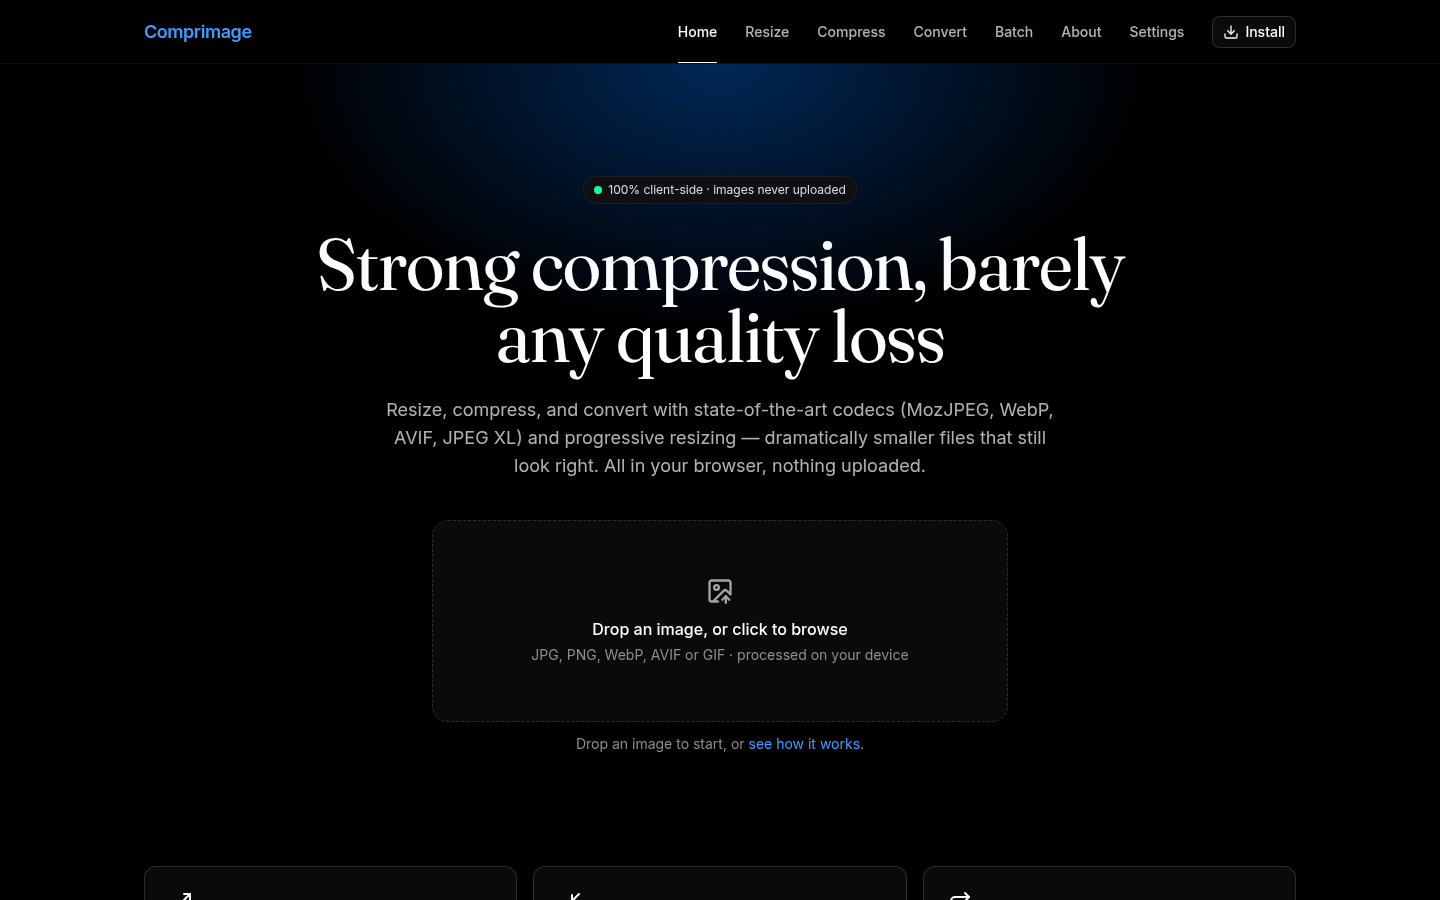
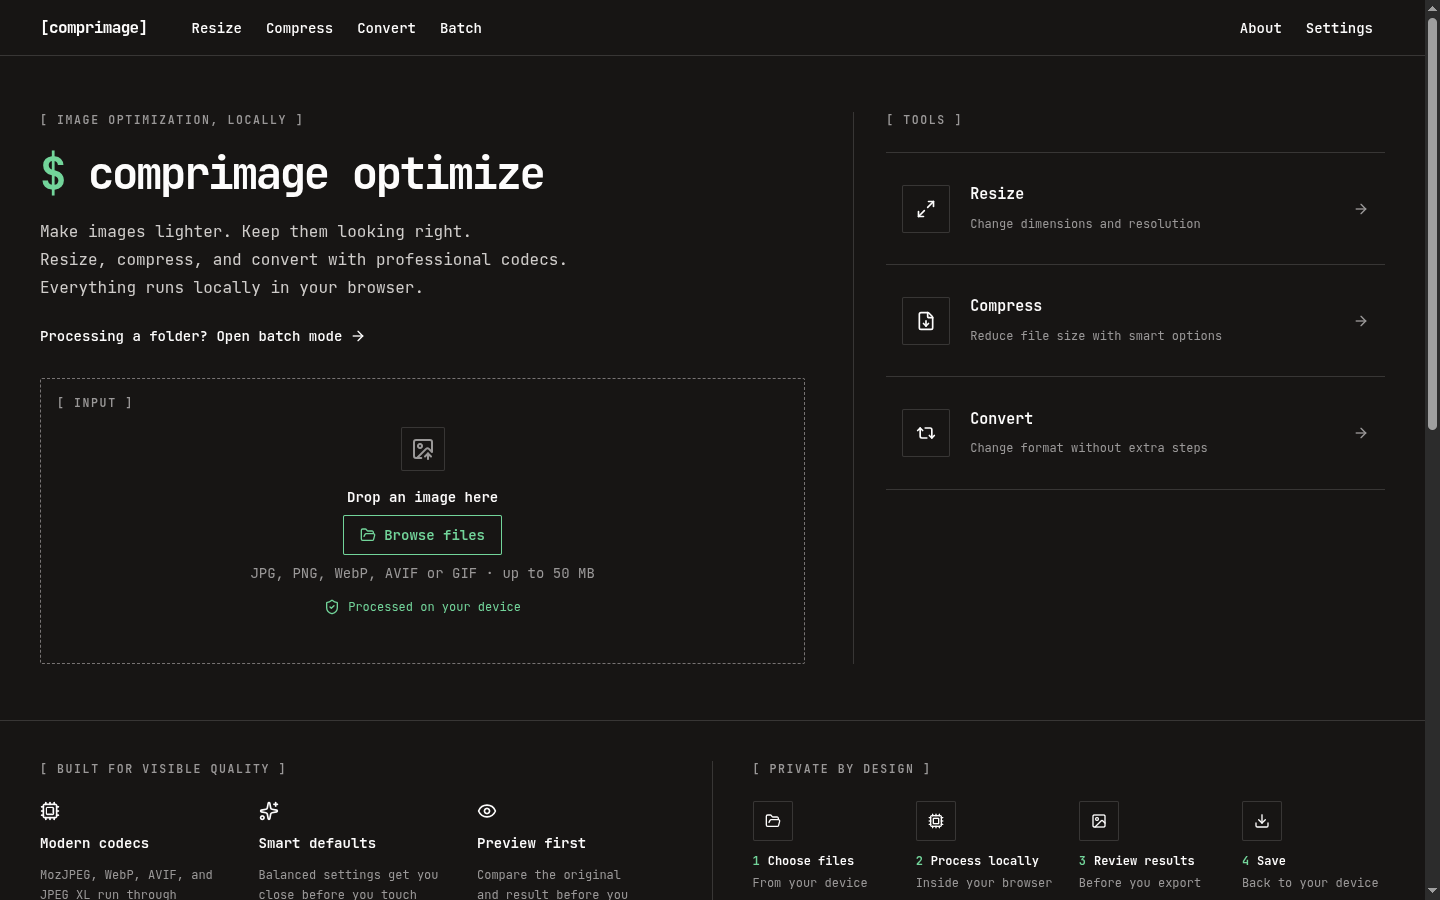
feat(projects): add Typefn and AutoWealth, move Comprimage to apex domain
Refresh the projects section with two new entries and correct the
Comprimage link after its move off the personal subdomain.

- add Typefn as the leading featured project, tagged TanStack Start, Go,
  PostgreSQL, and Tree-sitter
- add AutoWealth as a non-featured entry tagged PHP, Bootstrap, and CSS
- point Comprimage at comprimage.my.id, replacing the retired
  comprimage.rifkiramadhani.my.id subdomain
- recapture the Comprimage preview after its terminal-theme redesign

Preview images are captured at 1440x900 in dark mode, matching the
dimensions of the existing previews. Validated with ESLint, an Astro
production build, and a rendered check of the projects section in both
light and dark themes.

diff --git a/src/data/projects.ts b/src/data/projects.ts
@@ -8,6 +8,16 @@ const PROJECTS: {
   tags?: string[]
 }[] = [
   {
+    name: 'Typefn',
+    featured: true,
+    tags: ['TanStack Start', 'Go', 'PostgreSQL', 'Tree-sitter'],
+    description:
+      'A Monkeytype-style typing trainer for software engineers, built on real functions from permissively licensed open-source repositories. Tree-sitter extracts the corpus across TypeScript, JavaScript, Go, PHP, and Python, and the trainer preserves auto-indent while marking errors without force-correcting. Timed runs feed history, leaderboards, and adaptive weak-symbol drills.',
+    liveLink: 'https://www.typefn.dev/',
+    previewImage: 'typefn/1.png',
+    repoUrl: '#',
+  },
+  {
     name: 'Sportsmans Warehouse',
     featured: true,
     tags: ['Vue', 'Node.js', 'Tailwind', 'Payment Gateway'],
@@ -71,8 +81,17 @@ const PROJECTS: {
     tags: ['Astro', 'TypeScript', 'WebAssembly', 'PWA'],
     description:
       'A privacy-first image toolkit that runs entirely in the browser. Resize, compress, and convert images with modern codecs like MozJPEG, WebP, AVIF, and JPEG XL — no uploads, no server processing. Progressive resizing and auto-quality tuning deliver dramatically smaller files while keeping visuals sharp.',
-    liveLink: 'https://comprimage.rifkiramadhani.my.id/',
+    liveLink: 'https://comprimage.my.id/',
     previewImage: 'comprimage/1.png',
+    repoUrl: '#',
+  },
+  {
+    name: 'AutoWealth',
+    tags: ['PHP', 'Bootstrap', 'CSS'],
+    description:
+      'An institutional-grade robo-advisor for Singapore investors — globally diversified, index-tracking portfolios across CPF, SRS, and cash accounts.',
+    liveLink: 'https://www.autowealth.com.sg/',
+    previewImage: '',
     repoUrl: '#',
   },
 ]